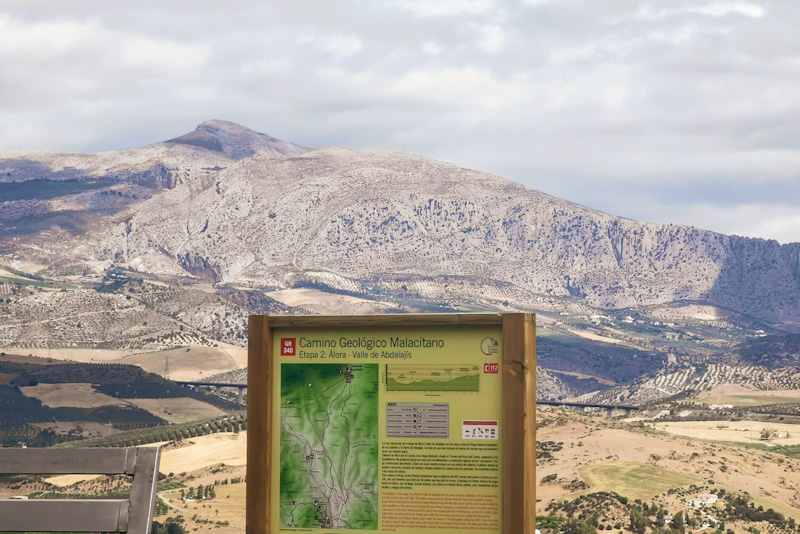
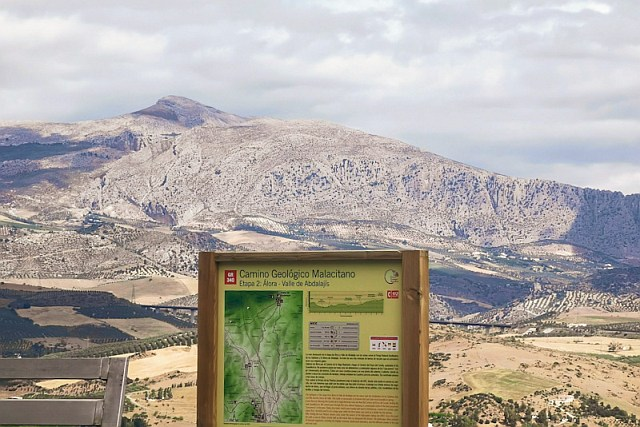
image changes

diff --git a/assets/css/custom.css b/assets/css/custom.css
@@ -169,11 +169,6 @@ div.blogentry h3, div.blogentry p {
     font-size: 1rem;
 }
 
-div.blogentry img
-{
-    max-width: 300px;
-}
-
 /* Table of contents */
 #markdown-toc {
   background-color: var(--accent-bg);

diff --git a/_posts/2023-10-27-test-images.md b/_posts/2023-10-27-test-images.md
@@ -2,24 +2,28 @@
 feature: y
 description: test images
 image:
-  path: "https://live.staticflickr.com/65535/53197035953_185ce95bdd_c.jpg"
   alt: "test flickr image in front matter"
+  path: "https://live.staticflickr.com/65535/53197035953_185ce95bdd_z.jpg"
+  width: 640
+  height: 480
+image-small:
+  path: "https://live.staticflickr.com/65535/53197035953_185ce95bdd_n.jpg"
+  width: 320
+  height: 240  
 ---
 # A test blog post for images
 
-Embed landscape image
+Embed landscape image size z remove script 
+<a href="https://www.flickr.com/photos/alangrantphoto/53197035953/in/album-72177720305905097/" title="Mural in Mulgrave Street, Dún Laoghaire"><img src="https://live.staticflickr.com/65535/53197035953_185ce95bdd_z.jpg" width="640" height="480" alt="Mural in Mulgrave Street, Dún Laoghaire"/></a>
 
-<a data-flickr-embed="false" href="https://www.flickr.com/photos/alangrantphoto/53197035953/in/album-72177720305905097/" title="Mural in Mulgrave Street, Dún Laoghaire"><img src="https://live.staticflickr.com/65535/53197035953_185ce95bdd_c.jpg" width="800" height="600" alt="Mural in Mulgrave Street, Dún Laoghaire"/></a>
+Embed landscape image size c remove script 
+<a href="https://www.flickr.com/photos/alangrantphoto/53197035953/in/album-72177720305905097/" title="Mural in Mulgrave Street, Dún Laoghaire"><img src="https://live.staticflickr.com/65535/53197035953_185ce95bdd_z.jpg" width="800" height="600" alt="Mural in Mulgrave Street, Dún Laoghaire"/></a>
 
-as above with no script
-<a data-flickr-embed="false" href="https://www.flickr.com/photos/alangrantphoto/53197035953/in/album-72177720305905097/" title="Mural in Mulgrave Street, Dún Laoghaire"><img src="https://live.staticflickr.com/65535/53197035953_185ce95bdd_c.jpg" width="800" height="600" alt="Mural in Mulgrave Street, Dún Laoghaire"/>
+Embed vertical image size z
+<a href="https://www.flickr.com/photos/alangrantphoto/53198847109/in/album-72177720305905097/" title="Former railway parcels office"><img src="https://live.staticflickr.com/65535/53198847109_67b5f6aaec_z.jpg" width="480" height="640" alt="Former railway parcels office"/></a> 
 
-Embed portrait image
+Embed vertical image size c
+<a href="https://www.flickr.com/photos/alangrantphoto/53198847109/in/album-72177720305905097/" title="Former railway parcels office"><img src="https://live.staticflickr.com/65535/53198847109_67b5f6aaec_c.jpg" width="600" height="800" alt="Former railway parcels office"/></a>
 
-<a data-flickr-embed="false" href="https://www.flickr.com/photos/alangrantphoto/53198847109/in/album-72177720305905097/" title="Former railway parcels office"><img src="https://live.staticflickr.com/65535/53198847109_67b5f6aaec_c.jpg" width="600" height="800" alt="Former railway parcels office"/></a>
-
-Gallery, no script
-<a data-flickr-embed="false" href="https://www.flickr.com/photos/alangrantphoto/albums/72177720305817264" title="Short walks Ireland :: Belmont Way and Sugarloaf Way"><img src="https://live.staticflickr.com/65535/53600890167_0600c91706_c.jpg" width="800" height="600" alt="Short walks Ireland :: Belmont Way and Sugarloaf Way"/></a>
 
 Text after the images.
-

diff --git a/_posts/2024-02-09-mapping-the-mysterious-gr340.md b/_posts/2024-02-09-mapping-the-mysterious-gr340.md
@@ -2,8 +2,14 @@
 feature: y
 description: The Camino Geológico Malacitano (GR 340) is a new and under-publicised long-distance walking trail in Malaga province. I have recently started adding it to OpenStreetMap.
 image:
-  path: /assets/images/20240209-GR340-information-board-alora.jpg
   alt: An information board with a map of a stage of the GR 340 walking trail, against a background of rocky mountains
+  path: /assets/images/20240209-GR340-information-board-alora.jpg
+  width: 640
+  height: 427
+image-small:
+  path: /assets/images/small/20240209-GR340-information-board-alora-320x214.jpg
+  width: 320
+  height: 214
 ---
 # Mapping the mysterious GR 340
 

diff --git a/blog.md b/blog.md
@@ -22,8 +22,8 @@ layout: default
    {% endif %}
    </p>
    <p>{{ post.description}}</p>
-   {% if post.image.path %}
-      <a href="{{ post.url }}"><img src= "{{ post.image.path}}" alt="{{ post.image.alt}}"></a>
+   {% if post.image-small.path %}
+      <a href="{{ post.url }}"><img src= "{{ post.image-small.path}}" alt="{{ post.image.alt}}" width="{{ post.image-small.width }}" height="{{ post.image-small.height }}"></a>
    {% endif %}
  </div>
 
